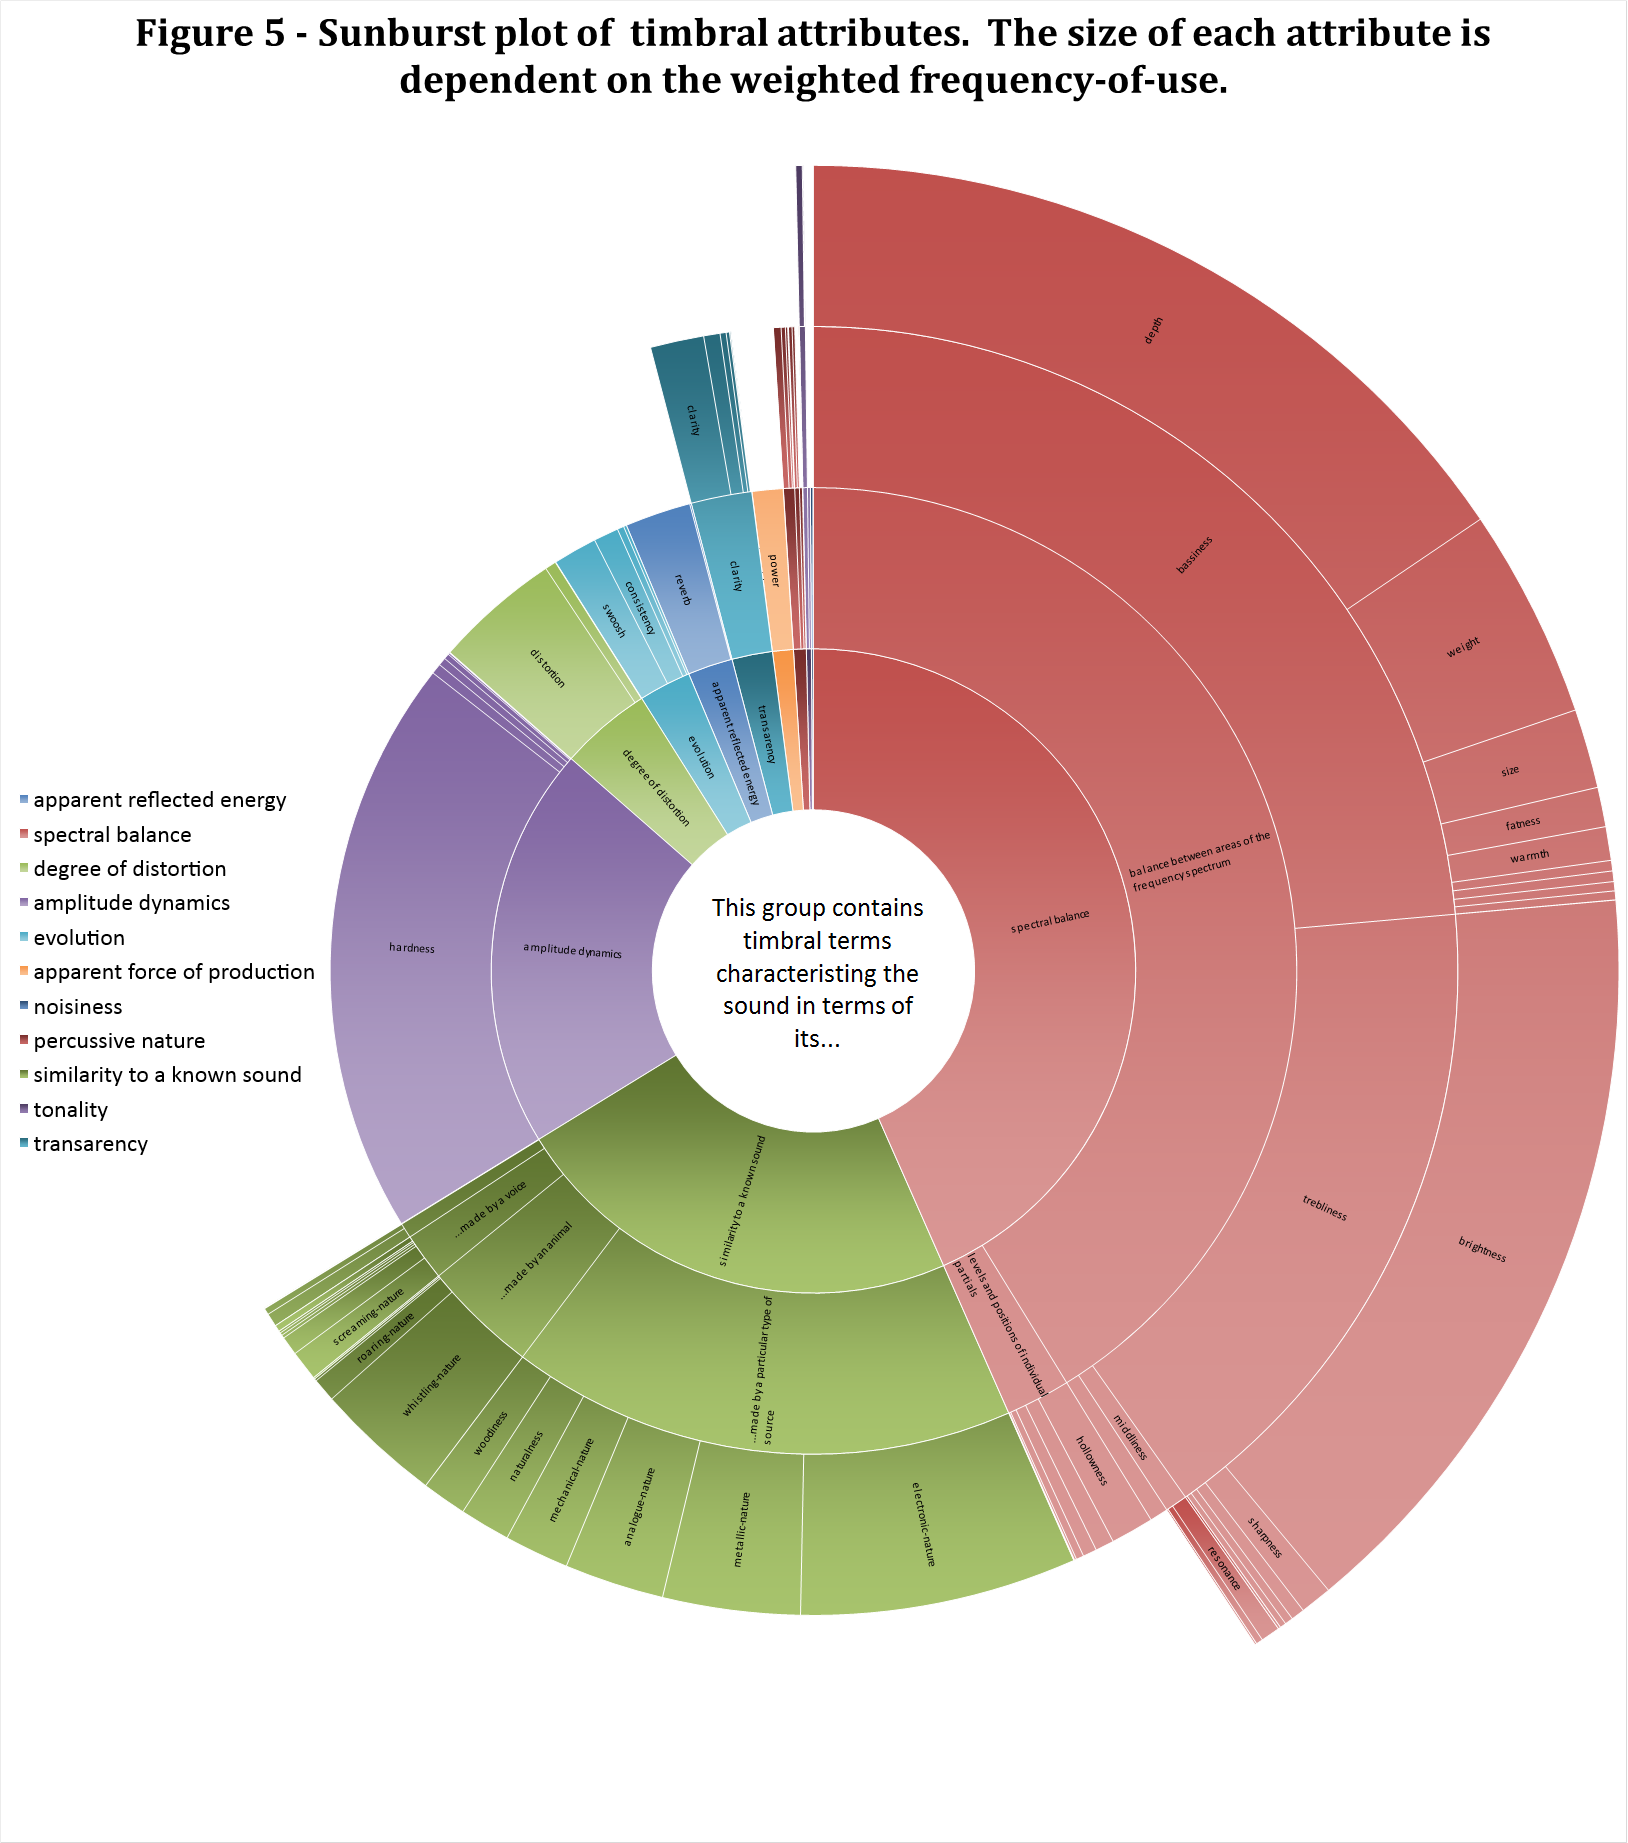
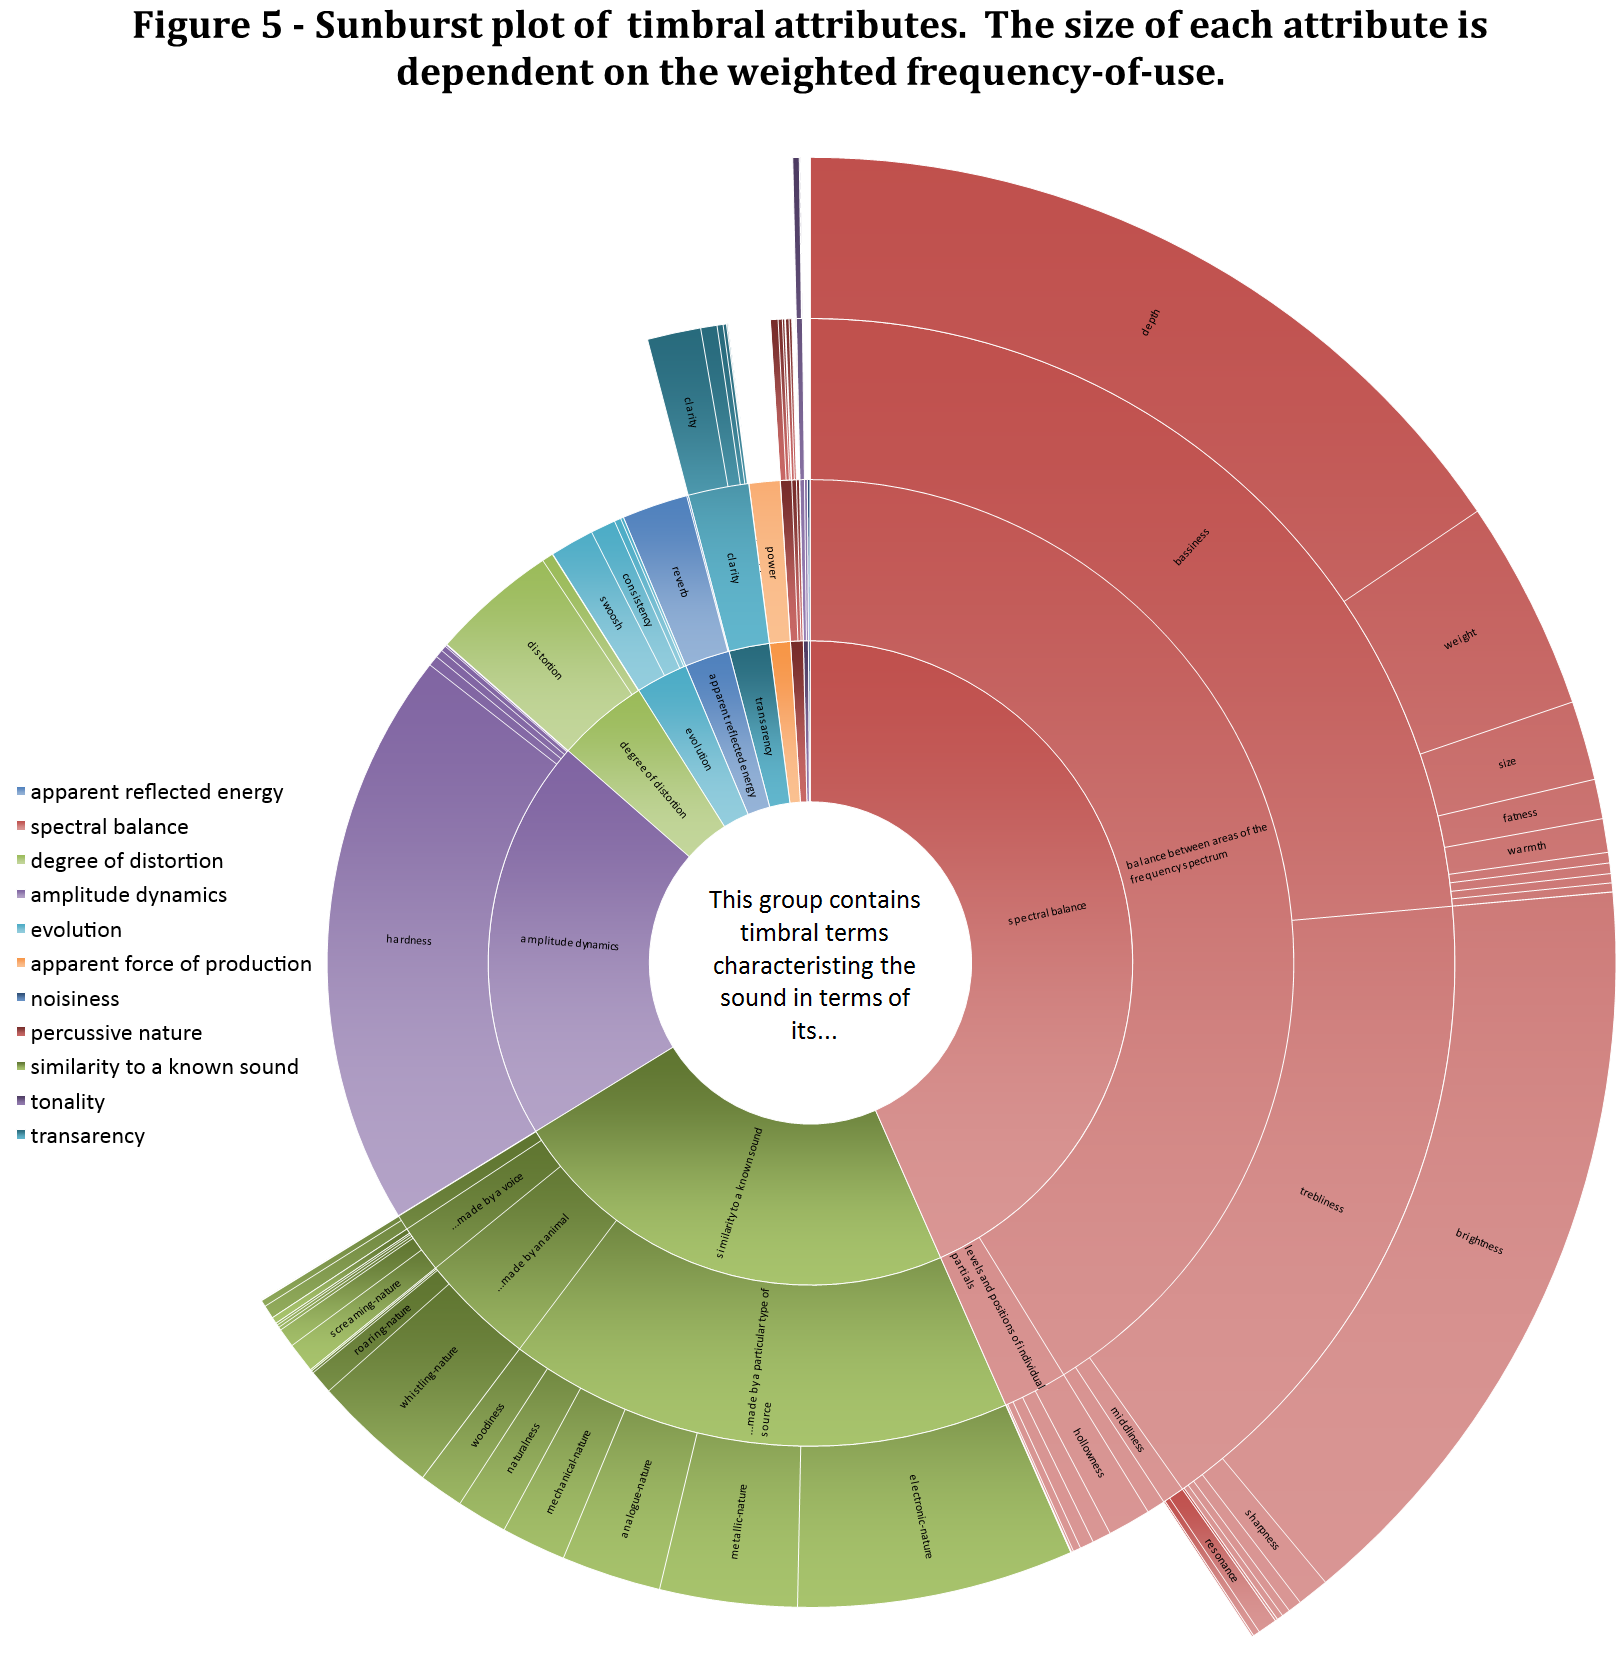
Imoproved first milestone news entry

diff --git a/_posts/2016-11-8-audiocommons-first-milestone-reached.md b/_posts/2016-11-8-audiocommons-first-milestone-reached.md
@@ -1,0 +1,17 @@
+---
+layout: post
+title:  "We have reached our first milestone!"
+#author: Author Name
+---
+
+We are happy to announce that after 9 months since the start of the AudioCommons project **we have reached, on due time, our first milestone**! In the following paragraphs we briefly summarise the work that we've carried out in different aspects of the project. Most of the documents that are produced in the project as well as **scientific publications** and other kinds of relevant material can be found in the [materials section](http://www.audiocommons.org/materials/) of our website. A broader introduction to the Audio Commons initiative can be found in our [position paper](http://www.audiocommons.org/assets/files/audiocommons_aes_2016.pdf).
+
+During the last months we have looked into intellectual property and legal aspects related to the Audio Commons Ecosystem. We have studied the **Creative Commons licensing framework** and made recommendations on how to apply it in the Audio Commons context and in the audio context in general. We have looked at which license-related aspects should the technology behind the Audio Commons Ecosystem support, including what steps should be followed in 'standardised' **(re)licensing processes** for safe commercial reuse of content, and how should licenses be presented to users to **maximise their understandability**. The outcomes of this research can be fond in two documents, [Report on Rights Management requirements](http://www.audiocommons.org/assets/files/AC-WP3-SURREY-D3.1%20Report%20on%20Rights%20Management%20requirements.pdf) and [Report on usage of Creative Commons licenses](http://www.audiocommons.org/assets/files/AC-WP3-SURREY-D3.2%20Report%20on%20usage%20of%20Creative%20Commons%20licenses.pdf), publicly available in our website.
+
+In parallel to that, we started the design of the **Audio Commons Ontology** which will be used in the backbone of the Audio Commons Ecosystem. An ontology is a tool to model and conceptualize knowledge about a domain. The Audio Commons Ontology will therefore model **knowledge about the sound and music domain** such as what metadata fields are relevant to annotate different kids of audio resources, how can Creative Commons licenses be combined and interpreted, an other knowledge such as relations betweens music genres and music instruments. This will be a great resource to power intelligent sound and music systems connected to the Audio Commons Ecosystem. You can find more information about the initial design of the ontology in the [Draft Ontology Specification](http://www.audiocommons.org/assets/files/AC-WP2-QMUL-D2.2%20Draft%20Ontology%20Specification.pdf) document.
+
+Finally, another other important work thread that we have been advancing on is the **automatic annotation of musical and non-musical audio content**. Of special relevance is our review of existing [state of the art music annotation methods](http://www.audiocommons.org/assets/files/AC-WP4-UPF-D4.1%20Report%20on%20the%20analysis%20and%20compilation%20of%20state-of-the-art%20methods%20for%20the%20automatic%20annotation%20of%20music%20pieces%20and%20music%20samples.pdf), and the work carried out for defining a [hierarchy of timbral semantic descriptors](http://www.audiocommons.org/assets/files/AC-WP5-Surrey-D5.1%20Hierarchical%20ontology%20of%20timbral%20semantic%20descriptors.pdf) aimed at describing non-musical audio concepts such as *depth* or *brightness*. The figure below shows a graphical representation of the hierarchy. An [interactive version](http://iosr.uk/projects/AudioCommons/sunburst.php) has also been made available. These documents will serve as a guide point for our future research in automatic sound and music annotation.
+
+<a href="/assets/files/AC-WP5-SURREY-D5.1-Fig5.png" target="blank"><img style="margin:auto;margin-bottom:25px;margin-top:25px;max-width:800px;" class="img-responsive" src="/assets/files/AC-WP5-SURREY-D5.1-Fig5.png" alt="Timbral Attributes"></a>
+
+The next milestone is scheduled for the **end of April 2017**, and includes the release of a **prototype implementation of the Audio Commons Ecosystem**. We have already started working on the different software services that will conform it and on the definition of the common API that will allow 3rd party applications to interact with Audio Commons content. We will keep you updated!
